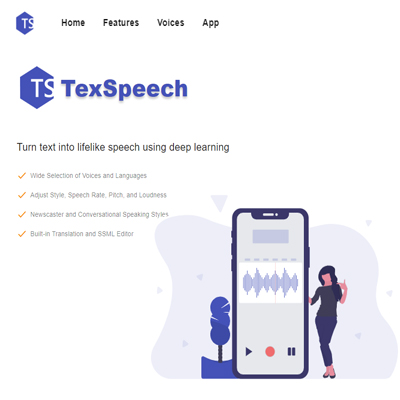
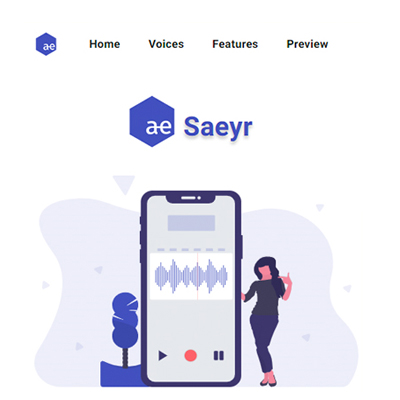
updated saeyr

diff --git a/src/components/landing/Projects/index.jsx b/src/components/landing/Projects/index.jsx
@@ -27,8 +27,8 @@ export const Projects = () => {
           <Card>
             <Thumbnail2/>
             <Content>
-              <h4>TexSpeech™</h4>
-              <p>A service that turns text into lifelike speech</p>                
+              <h4>Saeyr™</h4>
+              <p>Automation services for voice and text processing</p>                
             </Content>            
           </Card>
         </Item>
